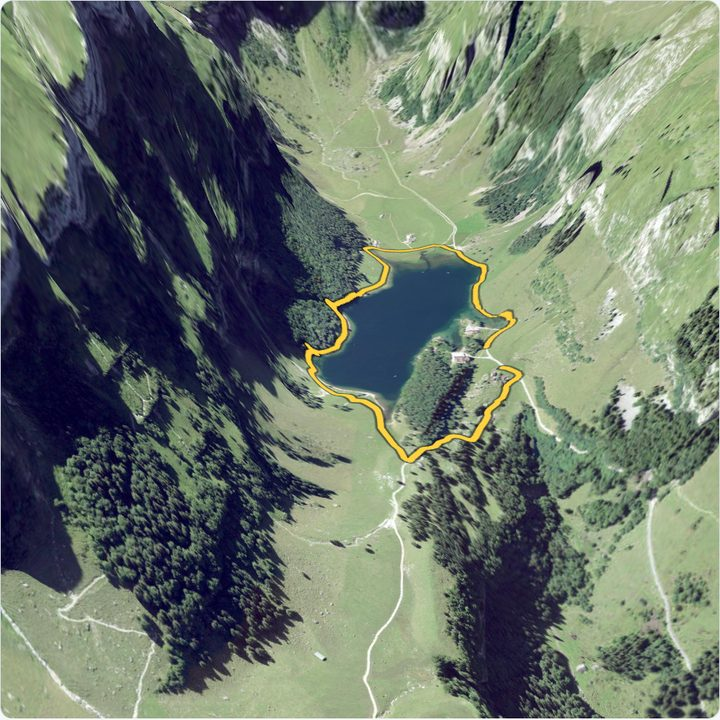
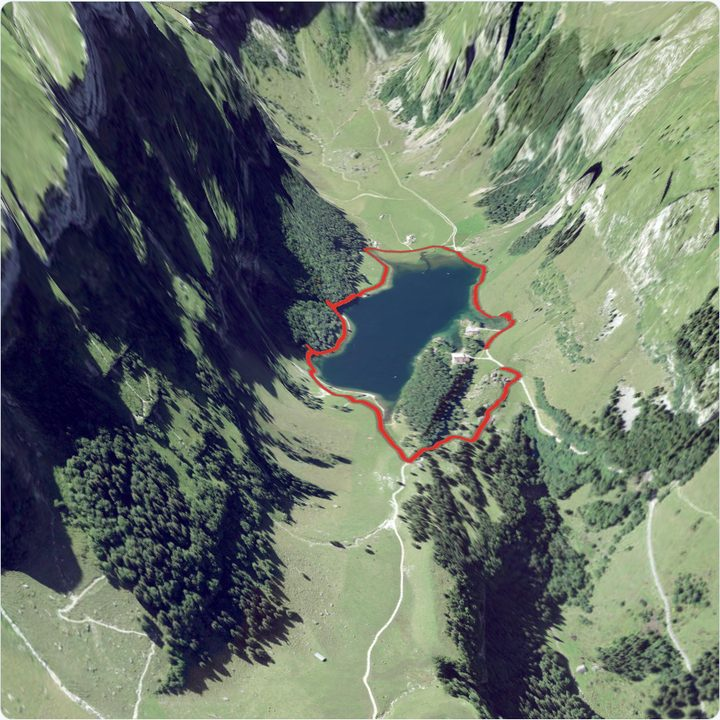
Route explorer: white trail on a soft ink shadow, walked part in ANYmal red
Replaces the yellow route and orange-red progress line. The selected section
is highlighted in glacier teal so it still shows over a white route. Teaser
stills re-rendered with the whole route in red.

diff --git a/static/js/explorer.js b/static/js/explorer.js
@@ -65,11 +65,12 @@ async function initExplorer(el) {
   map.addSource("sel", { type: "geojson", data: lineFC([]) });
   map.addSource("steep", { type: "geojson", data: { type: "FeatureCollection", features: ll.slice(1).map((q, i) => ({ ...lineFC([ll[i], q]), properties: { c: gradeColor(grade[i]) } })) } });
   const lw = w => ["interpolate", ["linear"], ["zoom"], 11, w * .8, 16, w * 1.6];
-  map.addLayer({ id: "route-casing", type: "line", source: "route", layout: { "line-cap": "round", "line-join": "round" }, paint: { "line-color": "#0b0f0d", "line-width": lw(10), "line-opacity": .55, "line-blur": 1 } });
-  map.addLayer({ id: "route-base", type: "line", source: "route", layout: { "line-cap": "round", "line-join": "round" }, paint: { "line-color": "#ffd23f", "line-width": lw(5) } });
-  map.addLayer({ id: "route-steep", type: "line", source: "steep", layout: { "line-cap": "round", visibility: "none" }, paint: { "line-color": ["get", "c"], "line-width": lw(5) } });
-  map.addLayer({ id: "route-done", type: "line", source: "done", layout: { "line-cap": "round", "line-join": "round" }, paint: { "line-color": "#ff3b30", "line-width": lw(6) } });
-  map.addLayer({ id: "route-sel", type: "line", source: "sel", layout: { "line-cap": "round" }, paint: { "line-color": "#fff", "line-width": lw(12), "line-opacity": .45 } });
+  // White trail on a soft ink shadow; the walked part in ANYmal red (the page accent)
+  map.addLayer({ id: "route-casing", type: "line", source: "route", layout: { "line-cap": "round", "line-join": "round" }, paint: { "line-color": "#0f1e26", "line-width": lw(8), "line-opacity": .45, "line-blur": 2 } });
+  map.addLayer({ id: "route-base", type: "line", source: "route", layout: { "line-cap": "round", "line-join": "round" }, paint: { "line-color": "#ffffff", "line-width": lw(3.5) } });
+  map.addLayer({ id: "route-steep", type: "line", source: "steep", layout: { "line-cap": "round", visibility: "none" }, paint: { "line-color": ["get", "c"], "line-width": lw(4) } });
+  map.addLayer({ id: "route-done", type: "line", source: "done", layout: { "line-cap": "round", "line-join": "round" }, paint: { "line-color": "#d9332b", "line-width": lw(4.5) } });
+  map.addLayer({ id: "route-sel", type: "line", source: "sel", layout: { "line-cap": "round" }, paint: { "line-color": "#7fd1c7", "line-width": lw(12), "line-opacity": .5 } });
   map.addLayer({ id: "route-hit", type: "line", source: "route", paint: { "line-color": "#000", "line-width": 22, "line-opacity": 0 } });
   const domMarker = (html, lat, lon, opts = {}) => { const d = document.createElement("div"); d.innerHTML = html; return new maplibregl.Marker({ element: d.firstElementChild, ...opts }).setLngLat([lon, lat]).addTo(map); };
   domMarker(`<span class="rx-end">Start</span>`, ...ll[0], { anchor: "bottom", offset: [0, -10] });

diff --git a/review/teaser3d.py b/review/teaser3d.py
@@ -17,7 +17,7 @@ async def main():
                 await pg.wait_for_timeout(6000)
                 await pg.evaluate("""([sel, cam]) => new Promise(r => { const el = document.querySelector(sel), m = el._map, c = m.getContainer();
                     c.style.width = '900px'; c.style.height = '900px'; c.style.flex = 'none'; m.resize();
-                    m.setPaintProperty("route-base","line-width",7); m.setPaintProperty("route-casing","line-width",13); m.jumpTo(cam); m.once('idle', () => { m.resize(); m.once('idle', r); m.triggerRepaint(); }); })""", [sel, cam])
+                    m.getSource("done").setData(m.getSource("route").serialize().data); m.setPaintProperty("route-done","line-width",5.5); m.setPaintProperty("route-base","line-width",5.5); m.setPaintProperty("route-casing","line-width",11); m.jumpTo(cam); m.once('idle', () => { m.resize(); m.once('idle', r); m.triggerRepaint(); }); })""", [sel, cam])
                 await pg.wait_for_timeout(2500)
                 await pg.locator(f"{sel} .rx-map").screenshot(path=f"shots/teaser-{key}.png")
         finally:

diff --git a/README.md b/README.md
@@ -67,4 +67,4 @@ Every file is under GitHub's 100 MB limit, and the site is about 210 MB.
 | Seealpsee pins | Fig. 3B panels (a)–(i), placed by fitting the figure's route line onto the GPS track (≈30 m), so positions are approximate. |
 
 Self-hosted video is limited to short clips. Long videos go on YouTube.
-| 3D-map teaser (section 03 of the main page) | `static/img/expeditions/{zermatt,seealpsee}-3d.jpg` (720×720): stills of the route explorer's own 3D map with the controls hidden, rendered by `review/teaser3d.py` (Playwright on system Chrome with the GPU, against `serve.py 8792`). Cameras: Zermatt center 7.738, 45.988, zoom 13.1, pitch 70, bearing −104 (route in front, Matterhorn behind); Seealpsee center 9.4035, 47.2683, zoom 15.2, pitch 64, bearing −116. Re-render them if the map style changes. |
+| 3D-map teaser (section 03 of the main page) | `static/img/expeditions/{zermatt,seealpsee}-3d.jpg` (720×720): stills of the route explorer's own 3D map with the controls hidden, rendered by `review/teaser3d.py` (Playwright on system Chrome with the GPU, against `serve.py 8792`). Cameras: Zermatt center 7.738, 45.988, zoom 13.1, pitch 70, bearing −104 (route in front, Matterhorn behind), whole route drawn in the walked-part red so it stands out from real paths; Seealpsee center 9.4035, 47.2683, zoom 15.2, pitch 64, bearing −116. Re-render them if the map style changes. |
